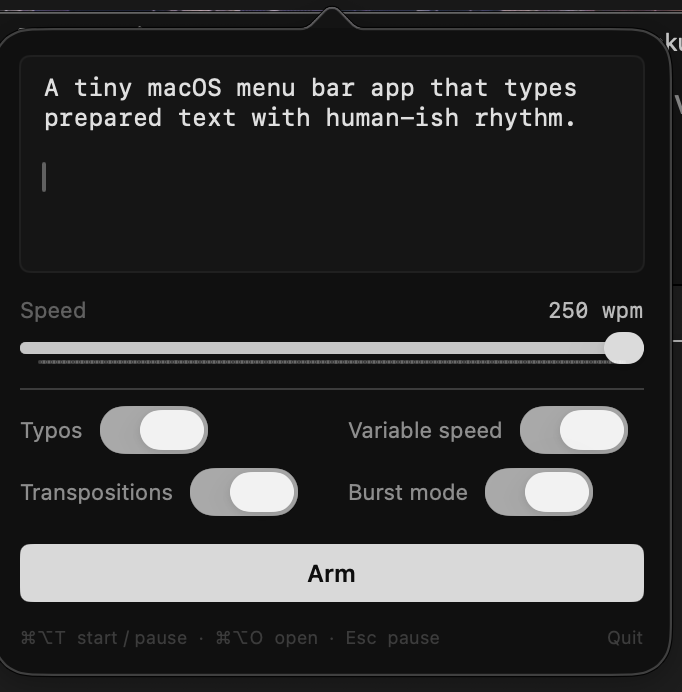
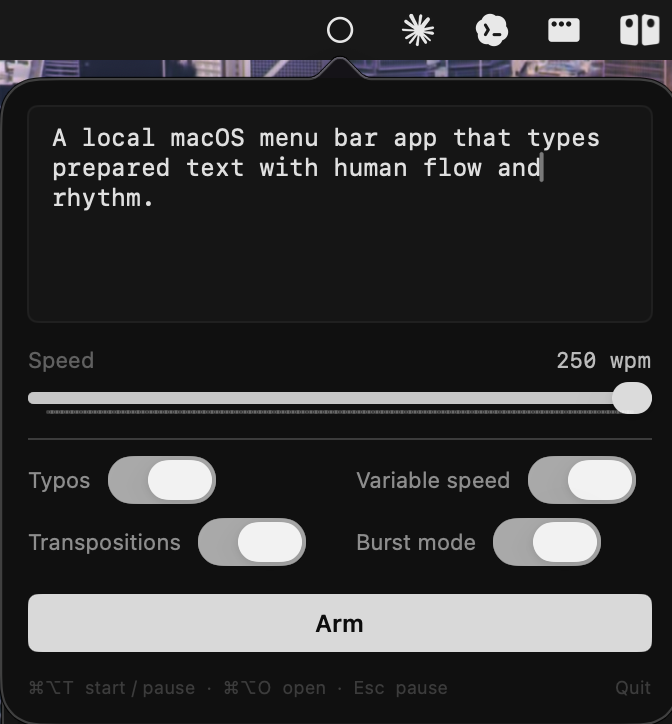
initial commit

Changed region(s): [[0.0, 0.4249, 1.0, 1.0], [0.0, 0.0, 1.0, 0.3035]]

diff --git a/README.md b/README.md
@@ -1,22 +1,21 @@
 # TypingBot
 
-A tiny macOS menu bar app that types prepared text with human-ish rhythm.
+A local macOS menu bar app that types prepared text with human flow and rhythm.
 
-TypingBot lets you paste a block of text, arm it, focus any text field, and have the app type it for you. It is intentionally a little silly, but the implementation is native macOS: Swift, AppKit, SwiftUI, CoreGraphics event taps, and synthetic keyboard events.
+The app lets you paste a block of text, arm it, and have the app type it for you - letter by letter. Good for cheating, but only if you already have the text prepared. 
 
-The goal is not to be a stealth tool or a shortcut for spam. It is a compact side project about keyboard automation, macOS permissions, and making generated typing feel less mechanically perfect.
 
 ## Features
-
+- "Absorbs" the keyboard, so you can type random things and they won't appear on screen (except the hotkeys, obviously)
 - Global hotkeys:
   - `Cmd+Opt+O` opens the control panel.
   - `Cmd+Opt+T` starts, pauses, and resumes typing.
-  - `Esc` pauses typing.
+  - `Esc` emergency-pauses typing.
   - `Esc` twice hard-resets the run so the next start begins from the top.
 - Human-like typing simulation:
   - Configurable typing speed.
   - Easy words type faster.
-  - Harder words type slower and can be more error-prone.
+  - Harder words type slower and can be more error-prone (but the bot autocorrects itself, just like we humans do).
   - Higher speeds produce fewer typos.
   - Optional corrected typos and transpositions.
 - Native macOS permissions flow for Accessibility and Input Monitoring.
@@ -47,7 +46,7 @@ TypingBot needs those permissions because macOS protects global keyboard listene
 5. Focus the app and text field where the text should go.
 6. Press `Cmd+Opt+T` to start.
 
-While TypingBot is running, it suppresses physical key presses so accidental keyboard input does not interfere with the generated text. Press `Esc` once to pause. Press `Esc` again while paused to reset the run to the beginning.
+While TypingBot is running, it suppresses physical key presses so accidental keyboard input does not interfere with the generated text. Press `Esc` once to pause. Once paused, everything you type will appear on screen. Press `Esc` again while paused to reset the run to the beginning.
 
 ## Build From Source
 
@@ -77,8 +76,6 @@ TypingBot is a small native macOS app:
 - CoreGraphics event taps handle global hotkeys and keyboard suppression.
 - Synthetic `CGEvent`s type the prepared text into the focused app.
 - `HumanSim` controls timing, speed variation, corrected mistakes, transpositions, and word difficulty behavior.
-
-Most of the interesting work is in making the app feel simple from the outside while respecting macOS security boundaries under the hood.
 
 ## Privacy
 
